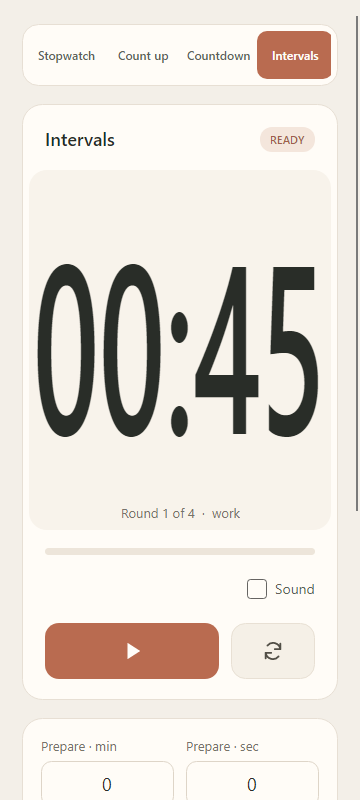
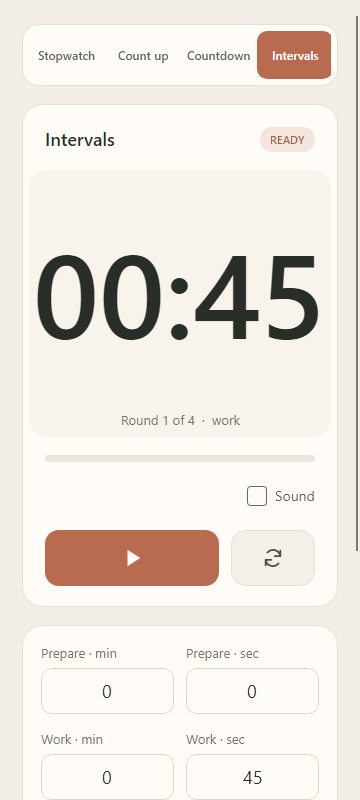
Revert "Double the height of timer digits across all modes"
This reverts commit 8736cb94bd3cb6c19f97eb5f1a7548f34286ec66.

diff --git a/Timer/Views/MainView.axaml.cs b/Timer/Views/MainView.axaml.cs
@@ -15,8 +15,7 @@ public partial class MainView : UserControl
     {
         InitializeComponent();
 
-        SizeChanged += (_, args) => TimeDisplayPanel.Height =
-            Math.Min(args.NewSize.Height * 2 / 3, Math.Min(args.NewSize.Width, 640));
+        SizeChanged += (_, args) => TimeDisplayPanel.Height = args.NewSize.Height / 3;
         AttachedToVisualTree += (_, _) => (DataContext as MainViewModel)?.ResumeUpdates();
         DetachedFromVisualTree += (_, _) => (DataContext as MainViewModel)?.SuspendUpdates();
 
